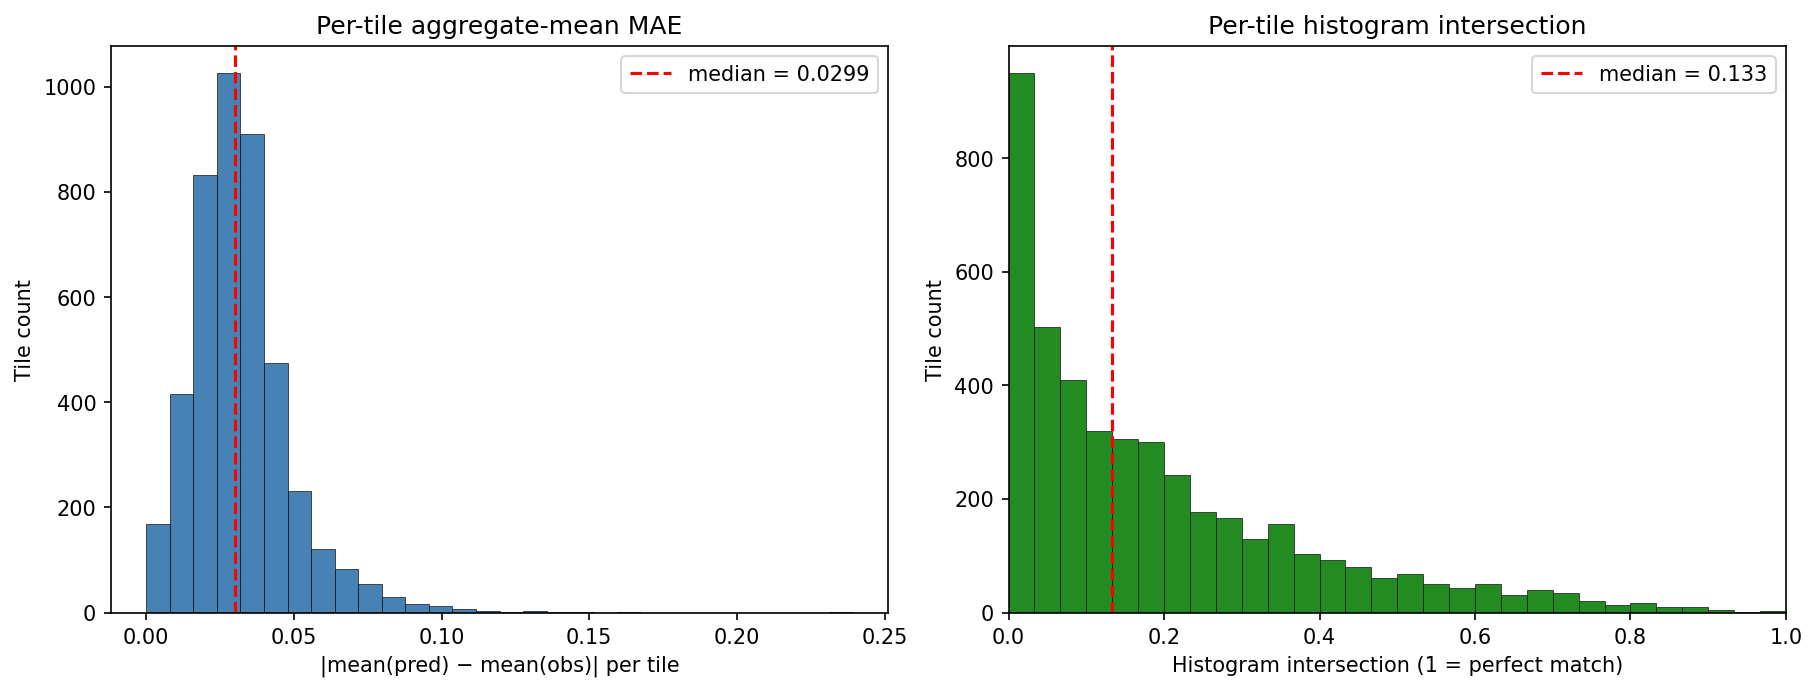
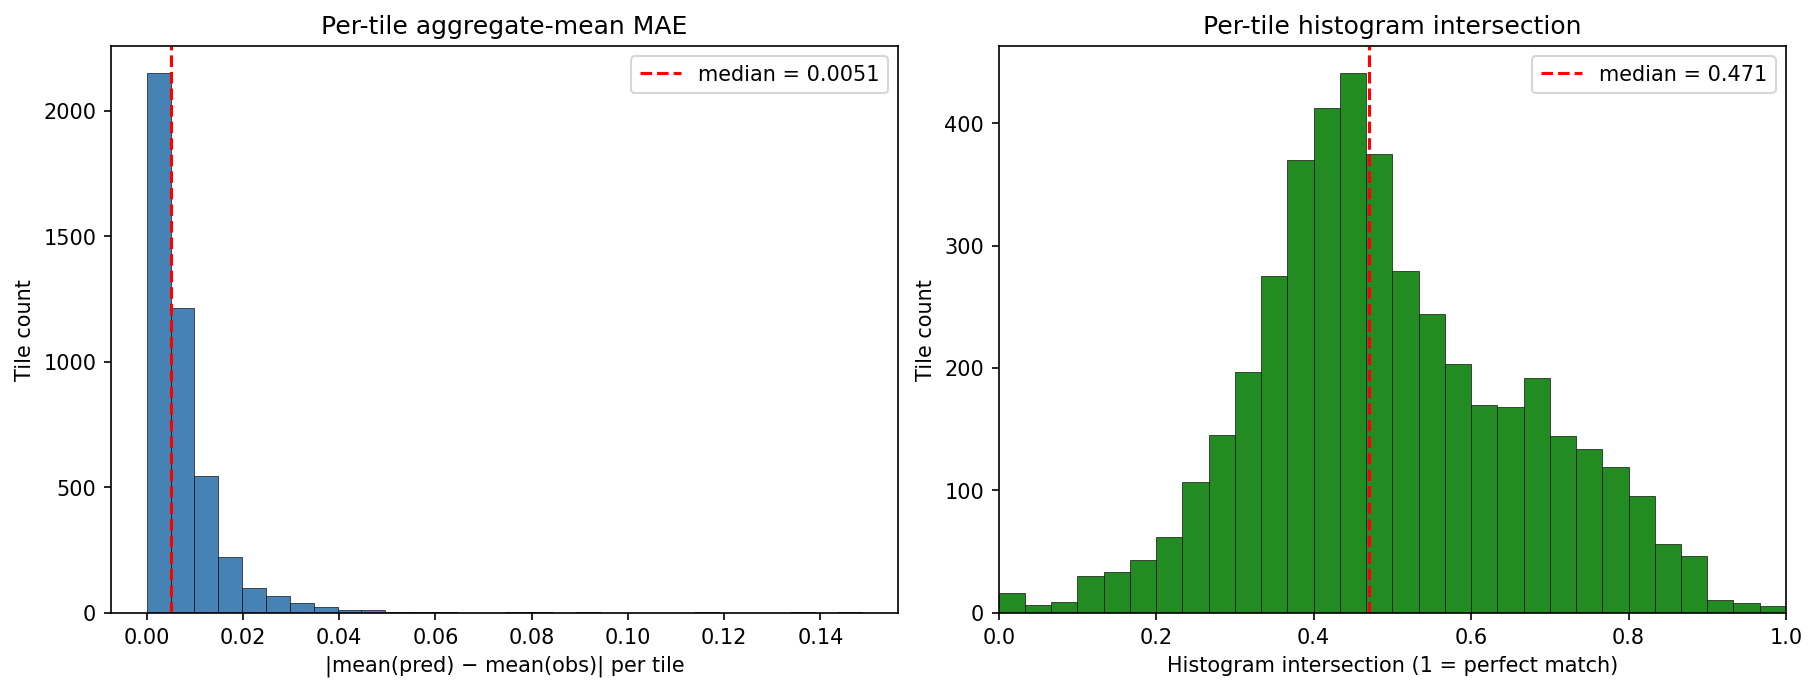
v22: mean_head_pixel_weight_alpha=0.3 — mediocre middle ground
Trained at α=0.3 between v20's α=0 and v21's α=1.0. Result is hybrid
that's worse than v20 on bulk and worse than v21 on tail:

                          v20       v21       v22
   xinter_median        0.604    0.133    0.471
   bin>0.1 coverage     0.083    0.394    0.135
   bin>0.2 coverage     0.007    0.039    0.005
   POD@0.1              0.043    0.232    0.059
   pred_max             0.356    0.505    0.256
   MAE median           0.0034   0.0299   0.0051
   coverage rate        0.958    0.483    0.952
   Pearson r            0.738    0.606    0.687

Stratified pred-median at obs band:
   zero (|obs|<0.005)         v20:+0.001  v21:+0.030  v22:+0.004
   hotspot (>0.4)             v20:+0.022  v21:+0.082  v22:+0.029

α=0.3 is too gentle — the mean head's slope across magnitudes barely
moved off v20 (med pred at obs>0.4: 0.022→0.029 vs v21's 0.082).
But it was enough to disturb the v20 bulk equilibrium (zero share
dropped 39.9%→28.5%, mod-pos share rose 40.1%→51.9%).

The pixel-weight knob appears sharply bimodal: gentle settings
don't unlock the tail; aggressive settings break the bulk. v23 will
try to keep α=1.0 and simultaneously crank up the bulk-anchor
losses (tile_mean_loss_weight 5→15, hist_loss_weight 0.3→1.0).

diff --git a/docs/diffusion_v1_results.md b/docs/diffusion_v1_results.md
@@ -7,7 +7,7 @@
 - Aggregate-tile size: **16×16** pixels (10 km blocks).
 - Histogram bins (rarity-weighted, matches baseline `histogram_loss.py`):
   `[-1.0, -0.005, 0.005, 0.02, 0.1, 0.2, 0.4, 0.6, 1.0]`.
-- W&B run: [glennwithtwons/spatio-temporal-diffusion/1efbl1nh](https://wandb.ai/glennwithtwons/spatio-temporal-diffusion/1efbl1nh)
+- W&B run: [glennwithtwons/spatio-temporal-diffusion/ji6ahe5z](https://wandb.ai/glennwithtwons/spatio-temporal-diffusion/ji6ahe5z)
 
 
 ## Iteration history (best-of-run on user-target metrics)
@@ -62,7 +62,7 @@ batches and the predict run slows from ~40 min to 2-3 h.
 
 ## Model & checkpoint
 
-- Checkpoint: `spatio-temporal-diffusion/1efbl1nh/checkpoints/dhm-diffusion-epoch12-valloss1.9689.ckpt`
+- Checkpoint: `spatio-temporal-diffusion/ji6ahe5z/checkpoints/dhm-diffusion-epoch12-valloss0.7467.ckpt`
 - Stopping epoch: 12 (global step 208)
 - Architecture: `ConditionalDiffusionUNet` (`diffusers.UNet2DModel`)
   - sample_size = 64
@@ -83,13 +83,13 @@ batches and the predict run slows from ~40 min to 2-3 h.
 | Metric | Value |
 |---|---|
 | Tiles with valid coverage | 4,394 of 7,150 |
-| Tile-mean MAE (median) | **0.0299** |
-| Tile-mean MAE (mean) | 0.0321 |
-| Tile-mean MAE (95th %ile) | 0.0633 |
-| Histogram intersection (median) | **0.133** |
-| Histogram intersection (mean) | 0.191 |
-| Pearson r (predicted vs. observed tile-mean Δhm) | 0.606 |
-| Coverage rate (q025 ≤ obs ≤ q975), all bins | 0.483 (target ≈ 0.95) |
+| Tile-mean MAE (median) | **0.0051** |
+| Tile-mean MAE (mean) | 0.0073 |
+| Tile-mean MAE (95th %ile) | 0.0215 |
+| Histogram intersection (median) | **0.471** |
+| Histogram intersection (mean) | 0.495 |
+| Pearson r (predicted vs. observed tile-mean Δhm) | 0.687 |
+| Coverage rate (q025 ≤ obs ≤ q975), all bins | 0.952 (target ≈ 0.95) |
 
 ### Coverage stratified by Δhm change bin
 
@@ -100,12 +100,12 @@ ones where the model has to express genuine uncertainty.
 
 | Δhm bin | n pixels | Coverage |
 |---|---:|---:|
-| `[ -1.000, -0.005]` | 56,357 | 0.129 |
-| `[ -0.005, +0.005]` | 742,163 | 0.516 |
-| `[ +0.005, +0.020]` | 116,330 | 0.353 |
-| `[ +0.020, +0.100]` | 97,708 | 0.607 |
-| `[ +0.100, +0.200]` | 10,296 | 0.394 |
-| `[ +0.200, +0.400]` | 1,614 | 0.039 |
+| `[ -1.000, -0.005]` | 56,357 | 0.732 |
+| `[ -0.005, +0.005]` | 742,163 | 0.994 |
+| `[ +0.005, +0.020]` | 116,330 | 0.959 |
+| `[ +0.020, +0.100]` | 97,708 | 0.853 |
+| `[ +0.100, +0.200]` | 10,296 | 0.135 |
+| `[ +0.200, +0.400]` | 1,614 | 0.005 |
 | `[ +0.400, +0.600]` | 120 | 0.000 |
 | `[ +0.600, +1.000]` | 7 | 0.000 |
 
@@ -120,17 +120,17 @@ WassDiff (IEEE TGRS 2025), ExtremeCast (AAAI 2024), and the Aich et al. (GMD
 
 - Threshold: 0.0667
 - Observed tail mass: 1245.5662
-- Predicted tail mass: 2566.3018
-- **Ratio (pred / obs):** **2.060** (<<1 = under-predicting tail; ~1 = calibrated; >1 = over)
+- Predicted tail mass: 239.0610
+- **Ratio (pred / obs):** **0.192** (<<1 = under-predicting tail; ~1 = calibrated; >1 = over)
 
 ### Tail exceedance (deterministic + q975 ensemble support)
 
 | Threshold | n(obs>t) | n(pred>t) | POD | CSI | FAR | q975 soft-POD |
 |---|---|---|---|---|---|---|
-| +0.050 |     42,889 |    233,237 | 0.634 | 0.109 | 0.883 | 0.995 |
-| +0.100 |     12,037 |     25,112 | 0.232 | 0.081 | 0.889 | 0.732 |
-| +0.200 |      1,741 |        454 | 0.029 | 0.024 | 0.888 | 0.129 |
-| +0.400 |        127 |         23 | 0.000 | 0.000 | 1.000 | 0.016 |
+| +0.050 |     42,889 |     28,739 | 0.238 | 0.166 | 0.645 | 0.961 |
+| +0.100 |     12,037 |      2,206 | 0.059 | 0.053 | 0.677 | 0.278 |
+| +0.200 |      1,741 |         21 | 0.008 | 0.008 | 0.333 | 0.019 |
+| +0.400 |        127 |          0 | 0.000 | 0.000 | nan | 0.000 |
 
 ![Q-Q max-of-field](../outputs/diffusion_v1/qq_max_of_field.png)
 
